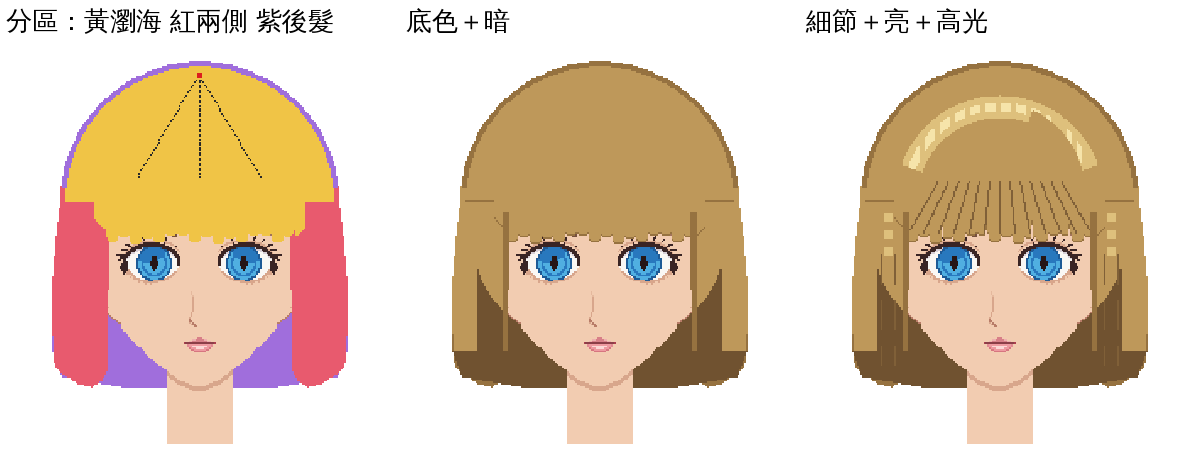
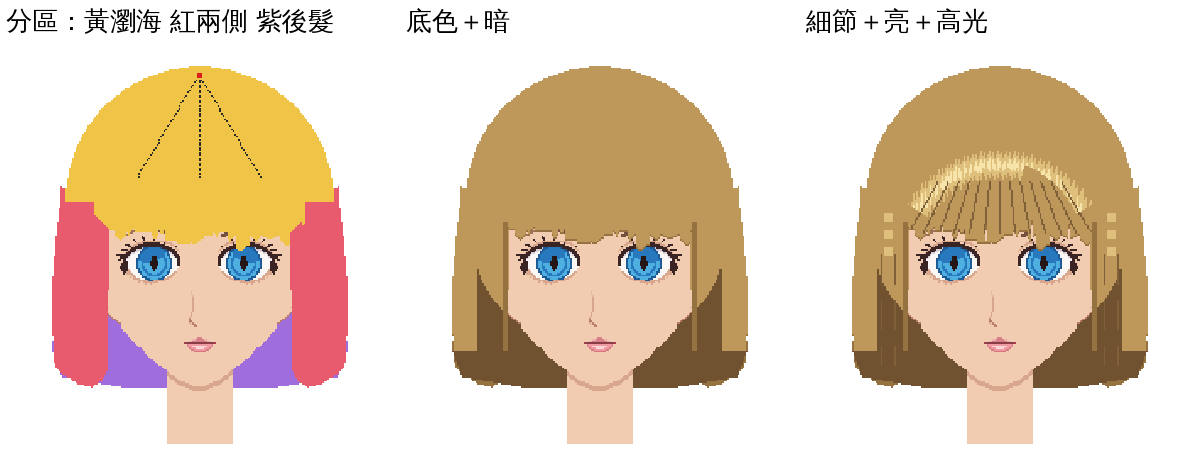
droom 臉模 v2：髮型修正（使用者）——瀏海髮束寬窄、長短不一、有尖有鈍、偶爾長一束或往旁撇；亮帶往下移到瀏海中段（額頭那帶）、上下緣抖動、高光條長短不一；不畫黑邊：後髮不再露出一圈暗色、太陽穴不畫橫線；samples/hair_hime_bob.png
Claude-Session: https://claude.ai/code/session_01FDQv7ddy7JMjePn6AqJ3VJ

diff --git a/web/droom/face_mold/v2/hair_one.py b/web/droom/face_mold/v2/hair_one.py
@@ -22,11 +22,24 @@ def regions():
   # 瀏海：頭髮外緣的上半圈，往下到 BANG_Y；兩邊在太陽穴收進去
   top=pm(arc(RO,math.pi*1.06,math.pi*1.94)+[(CX+60,BANG_Y-4),(CX-60,BANG_Y-4)])
   bang=np.zeros((N,N),bool)
+  # 瀏海下緣（使用者：太整齊一樣 → 髮束寬窄不一、長短不一、有的尖有的鈍、偶爾一束特別長或往旁邊撇）
+  import random
+  rnd=random.Random(7 if HS!='bob' else 11)
+  x=CX-62;tips={}
+  while x<=CX+62:
+    w=rnd.choice([4,5,6,7,8,9,10,12]);L=rnd.choice([0,1,2,3,4,5,6,-1,-2]) if HS=='bob' else rnd.choice([0,1,2,3,4,-1,-2,5])
+    if rnd.random()<.15:L+=4                              # 偶爾一束比較長
+    pointed=rnd.random()<.6;lean=rnd.choice([-1,0,0,1])
+    for i in range(w):
+      if x+i>CX+62:break
+      u=(i+.5)/w                                           # 0～1 在這束裡的位置
+      drop=L+(3*(1-abs(2*u-1-lean*.4)) if pointed else 1.2)   # 尖的：中間最長；鈍的：平
+      tips[x+i]=BANG_Y-2+drop
+    x+=w
   for x in range(CX-62,CX+63):
-    # 下緣一束束的：每 7 格一束，尖端上下錯開 0～3 格
-    k=(x-(CX-62))//7;tip=BANG_Y+([0,2,1,3,0,2,1] if HS!='bob' else [0,4,1,5,2,4,0])[k%7]-(1 if (x-(CX-62))%7 in(0,6) else 0)
+    tip=tips[x]
     if abs(x-CX)>52:tip-=int((abs(x-CX)-52)*.9)          # 兩端往上收、接到鬢角
-    for y in range(int(CY-RO*0.6),tip):bang[y,x]=True
+    for y in range(int(CY-RO*0.6),int(tip)):bang[y,x]=True
   cap=pm(arc(RO,math.pi,2*math.pi)+[(CX+RO,CY),(CX-RO,CY)])
   bang&=cap|(np.arange(N)[:,None]>CY-30)
   front_top=cap&(np.arange(N)[:,None]<CY-28)
@@ -41,7 +54,7 @@ def regions():
       for y in range(110,212,4):p.append((CX+s*(RO+3+5*math.sin(math.pi*(y-110)/130)),y))
       p+=[(CX+s*(RO+2),214),(CX+s*72,220),(CX+s*64,222),(CX+s*58,218),(CX+s*55,212),(xin+s*1,180),(xin,150)]
       sides|=pm(p)
-    back=pm(arc(RO+3,math.pi,2*math.pi)+[(CX+RO+8,200),(CX+RO+2,216),(CX+46,222),(CX-46,222),(CX-RO-2,216),(CX-RO-8,200)])
+    back=pm(arc(RO,math.pi,2*math.pi)+[(CX+RO+8,200),(CX+RO+2,216),(CX+46,222),(CX-46,222),(CX-RO-2,216),(CX-RO-8,200)])
   else:
     # 長直髮：兩側從太陽穴直直往下，內緣貼著臉頰外側、外緣在耳朵外面，尾端一束束
     for s in(-1,1):
@@ -52,7 +65,7 @@ def regions():
       p+=tips+[(xin+s*2,226),(xin,150)]
       sides|=pm(p)
     # 後髮：頭的後面一大片，比肩膀寬一點，一路到畫面下面
-    back=pm(arc(RO+2,math.pi,2*math.pi)+[(CX+RO+10,256),(CX-RO-10,256)])
+    back=pm(arc(RO,math.pi,2*math.pi)+[(CX+RO+10,256),(CX-RO-10,256)])
   return bangs,sides,back
 def render(img,stage):
   white=(img==255).all(2);out=img.copy()
@@ -71,8 +84,8 @@ def render(img,stage):
   # 6 暗：後髮靠脖子／肩膀那段更暗；兩側靠臉那條暗；瀏海最下面一格暗
   out[back&white&(np.abs(xx-CX)<RO-6)&(yy>CY+40)]=C['dk']
   for s in(-1,1):
-    inner=sides&(np.abs(xx-(CX+s*55))<=2)&(yy>118);out[inner]=C['sh']
-  bot=bangs&~np.roll(bangs,-1,0);out[bot]=C['sh']
+    inner=sides&(np.abs(xx-(CX+s*56))<=1)&(yy>124);out[inner]=C['sh']   # 兩側靠臉一點點暗（不是描邊）
+  bot=bangs&~np.roll(bangs,-1,0)&(np.abs(xx-CX)<=54);out[bot]=C['sh']   # 只在瀏海那段（不要在太陽穴畫出一條橫的黑邊）
   if HS=='bob':
     curl=sides&~np.roll(sides,-6,0);out[curl&(yy>190)]=C['sh']
     out[back&white&(yy>200)]=C['dk']
@@ -96,12 +109,14 @@ def render(img,stage):
   # 5＋8 亮：頭頂一圈寬的亮帶（光從左上，左邊亮一點），帶子裡再一條條白色高光（天使環，跟著髮束斷開）
   for y in range(N):
     for x in range(N):
-      if not bangs[y,x] or y>CY:continue
-      r=math.hypot(x-CX,y-CY);a=math.degrees(math.atan2(y-CY,x-CX))%360
-      if 49<=r<=62 and 200<a<340:
+      if not bangs[y,x] or y>BANG_Y-6:continue
+      HY=CY+34                                              # 亮帶的圓心往下移（使用者：反光太上面）
+      r=math.hypot(x-CX,y-HY);a=math.degrees(math.atan2(y-HY,x-CX))%360
+      jt=((x*37)%5)-2;jb=((x*53)%5)-2                       # 每一欄上下緣抖一點，不要像髮箍
+      if 49+jb<=r<=62+jt and 210<a<330:
         # 亮帶（光從左上，左邊寬右邊窄），帶子中間一條條直的白色高光，跟著髮束斷開
-        if a>290 and r<52+ (340-a)/10:continue
-        streak=(x//3)%3!=0 and 53<=r<=58 and (a<300 or (x//3)%2==0)
+        if a>285 and r<52+(330-a)/9:continue
+        streak=((x*7)//5)%4!=0 and 53+jb//2<=r<=58+jt and (a<300 or (x//3)%2==0)
         if tuple(out[y,x])==C['ln']:continue
         out[y,x]=C['hi'] if streak else C['li']
   for s in(-1,1):                                          # 兩側上段也帶一點亮
